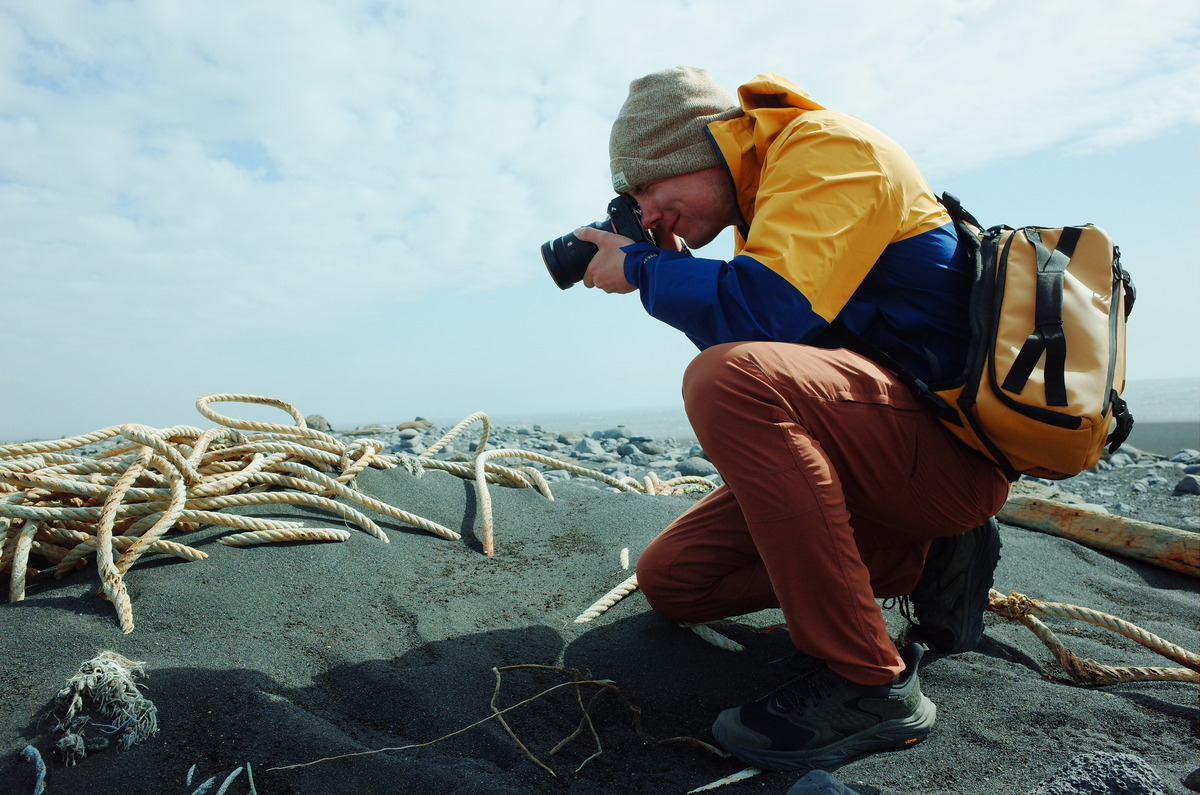
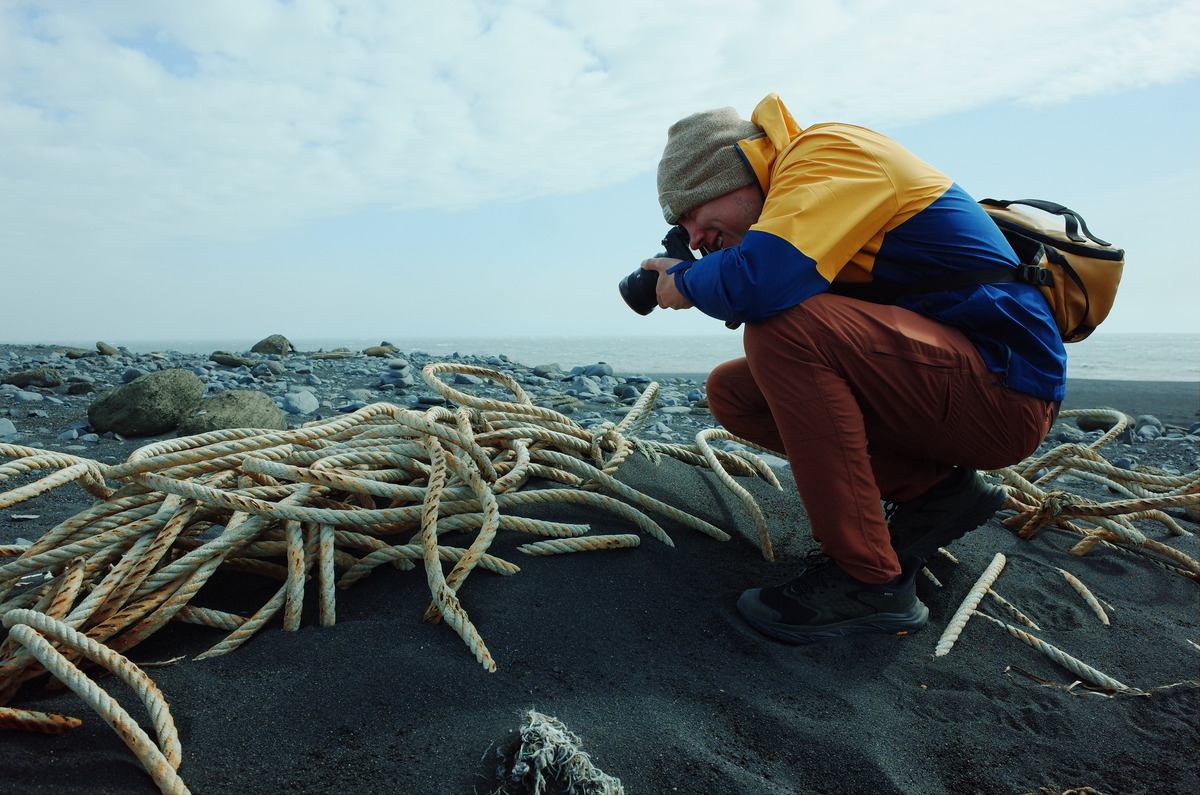
Add: Final content

diff --git a/content/travel/south-coast-iceland.md b/content/travel/south-coast-iceland.md
@@ -1,13 +1,13 @@
 ---
 title: "Exploring Iceland's South Coast: Seljalandsfoss, Dyrhólaey, and Reynisfjara Beach"
-date: 2024-08-13T13:13:56-04:00
+date: 2024-08-14T13:13:56-04:00
 description: "Explore Iceland's south coast with visits to Seljalandsfoss, Dyrhólaey, and Reynisfjara Beach. Discover breathtaking landscapes and hidden gems."
-images: ["/images/reykjadalur_steam.jpg"]
+images: ["/images/myles_reynisfjara.jpg"]
 series: ["Iceland", "Iceland 2024"]
 tags: ["iceland", "hotel", "seljalandsfoss", "plane", "reynisfjara"]
 categories: ["travel"]
-thumbnail: "/images/reykjadalur_steam.jpg"
-thumbnailAlt: ""
+thumbnail: "/images/myles_reynisfjara.jpg"
+thumbnailAlt: "Photographer kneeling on the black sand beach of Reynisfjara, Iceland, with a camera raised to take a picture."
 ---
 
 Before Myles and I departed for the south coast of Iceland, we had breakfast in the lobby of Reykjavik Lights. The dining area was beyond the bar, in a part of the hotel with no windows. There were rows of white tables with white chairs, next to a white table which held fresh cantaloupe, grapes, oranges, and watermelon on white plates. Warm bread was placed alongside peanut butter and Nutella. Sweets were nearby the bread, with a tower of muffins, croissants, cookies, and donut holes. Self-serve containers of coffee, tea, orange juice, cereal, and milk were behind the table of food, with a pot of hot oatmeal.
@@ -18,15 +18,15 @@ From the N1 gas station, Myles and I stayed on Route 41 until we connected with 
 
 Eastward on Route 1, Seljalandsfoss is visible from afar. The waterfall plunges two hundred feet from a cliff, and is served water from the Seljalands river, a side-effect of the melting glacier Eyjafjallajökull. Myles and I parked near a gift shop in the style of a cabin. As we had circled behind [Seljalandsfoss in 2018]({{< ref "/travel/iceland-blog-02" >}}), we walked a half mile to the north to visit Gljúfrabúi. The waterfall is overlooked, tucked into a wet cleft along the same rock face of Seljalandsfoss. Inside the canyon, in front of Gljúfrabúi, is a climbable boulder. Myles took a photograph of me atop the boulder in an upward angle, which exposed the 131 foot cliff.
 
+Myles and I kept our time at Seljalandsfoss and Gljúfrabúi short to maximize the day along the coast. We drove thirty minutes to the east of Seljalandsfoss to Kvernufoss, one more waterfall which receives infrequent attention. In comparison to the swarm of tourists at Seljalandsfoss, we were able to walk behind Kvernufoss by ourselves. The waterfall is tucked into a gorge, and is shrouded in constant mist, which blankets the area and nearby organic overlook. As the canyon was devoid of people at the time, I scrambled atop the overlook and used my field recorder to sample the white noise of water as it fell one hundred feet.
+
 {{< images >}}
 
-{{< image src="/images/Gljufrabui.jpg" alt="" >}}
+{{< image src="/images/gljufrabui.jpg" alt="An upward angle view from inside a moss-covered canyon below the Gljúfrabúi waterfall." >}}
 
-{{< image src="/images/Seljalandsfoss_myles.jpg" alt="" >}}
+{{< image src="/images/kvernufoss.jpg" alt="Kvernufoss waterfall in Iceland as water plunges into a rocky stream surrounded by lush green hills." >}}
 
 {{< /images >}}
-
-Myles and I kept our time at Seljalandsfoss and Gljúfrabúi short to maximize the day along the coast. We drove thirty minutes to the east of Seljalandsfoss to Kvernufoss, one more waterfall which receives infrequent attention. In comparison to the swarm of tourists at Seljalandsfoss, we were able to walk behind Kvernufoss by ourselves. The waterfall is tucked into a gorge, and is shrouded in constant mist, which blankets the area and nearby organic overlook. As the canyon was devoid of people at the time, I scrambled atop the overlook and used my field recorder to sample the white noise of water as it fell one hundred feet.
 
 Before Myles and I departed Kvernufoss, I stopped into the Skógar Museum to browse souvenirs. In a display case was a miniature white sheep made of glass. As Myles and I had passed hundreds of sheep along Route 1, I chose the sheep as my token, or symbolic trinket, for the trip. I've bought a sole token for each trip since 2017. In my collection are toy taxi cabs from Manhattan and Kyoto, a troll from Norway, a wax Godzilla figure from a movie premiere in Tokyo, a JR-East subway car from Tokyo, a ceramic Romanian house, and a scale Mount Fuji from Yamanashi Japan. My token for Iceland in 2018 was a metal figurine of the god Thor.
 
@@ -38,9 +38,9 @@ Beyond the plane to the south was the North Atlantic coast. The beach went on fo
 
 {{< images >}}
 
-{{< image src="/images/plane_crash.jpg" alt="" >}}
+{{< image src="/images/plane_crash.jpg" alt="Port side view of a crashed C-117D plane in Iceland." >}}
 
-{{< image src="/images/myles_beach.jpg" alt="" >}}
+{{< image src="/images/myles_beach.jpg" alt="Person photographing tangled rope in sand near a beach." >}}
 
 {{< /images >}}
 
@@ -54,14 +54,24 @@ Our next stop was Reynisfjara Beach, known for black sand and sneaker waves. Myl
 
 Reynisfjara Beach is a place where the line between beauty and danger is thin. With black sand underneath a sky with heavy clouds, Reynisfjara Beach was otherworldly. Seabirds called out from the blackened cliffs, their cries muted by the sea and wind. Waves crashed against the shoreline with a white foam which contrasted with the dark ground. These waves, however, are unpredictable and swift, and have powerful undercurrents. The tide recedes deceptively and returns suddenly in force. In years past, visitors have walked beyond the recommended safe zone and have been dragged out to sea. The last fatality was in 2022.
 
+{{< images >}}
+
+{{< image src="/images/dyrholaey.jpg" alt="Black sand coast line stretching into the distance." >}}
+
+{{< image src="/images/reynisfjara.jpg" alt="People walking along the black sand beach of Reynisfjara." >}}
+
+{{< /images >}}
+
 After Reynisfjara Beach, Myles and I made our way to Hjörleifshöfði to visit the Yoda cave. The cave, naturally carved into the side of the mountain, bears a resemblance to the iconic Star Wars character. The approach to the cave required a short hike across rocky terrain, with wind a persistent force. The distinct shape is more pronounced from within the cave, with casted shadows which highlighted the rock formations. The entrance frames the landscape outside, which creates a dramatic view of the surrounding plains. Despite the cave's connection to popular culture, the site is not a tourist attraction and remains quiet.
 
 We explored the area outside of the cave and were surrounded by stark contrasts of black sands and lush greenery. Low vegetation dotted the slopes of the mountain, with seabirds nested among the high cliffs. The view of the Mýrdalssandur outwash plain stretched out for miles, an expanse shaped by volcanic activity and glacial rivers. Within the plains near the cave, Myles and I walked a half mile to two large boulders, one of which resembled a troll. The boulders were unclimbable but were picturesque from each side. The solitude of the area, however, was eerie, with an absence of people and structure. Wind was the sole audible noise. We did, however, locate beach glass scattered on the ground.
 
 {{< images >}}
 
-{{< image src="/images/plains_boulder.jpg" alt="" >}}
+{{< image src="/images/plains_boulder.jpg" alt="A colossal boulder on an empty plain with a distant boulder in the background." >}}
 
-{{< image src="/images/plains_myles.jpg" alt="" >}}
+{{< image src="/images/plains_myles.jpg" alt="Photographer standing next to a moss covered mountain with camera in hand." >}}
 
 {{< /images >}}
+
+After we left Hjörleifshöfði, Myles and I returned to Reykjavik Lights. It was a long drive, which took four hours. Traffic was non-existent for miles at a time, which allowed for us to keep a consistent speed the entire way. Vehicles we came across were headed in the same direction. The journey took us westward across the southern coast on Route 1. We passed through dimly lit villages and wide stretches of empty plains. Despite how late it was, the midnight sun cast an eerie glow across the landscape. By the time we reached the hotel, the clock had passed midnight, yet daylight persisted, a reminder of Iceland's uniqueness.

diff --git a/content/travel/iceland-blog-02.md b/content/travel/iceland-blog-02.md
@@ -45,8 +45,8 @@ We walked towards the cliff edge near the right side of the lighthouse, which pr
 
 {{< images >}}
 
-{{< image src="/images/dyrholaey_1.jpg" alt="Dyrhólaey." >}}
-{{< image src="/images/dyrholaey_2.jpg" alt="Dyrhólaey." >}}
+{{< image src="/images/dyrholaey_1.jpg" alt="" >}}
+{{< image src="/images/dyrholaey_2.jpg" alt="" >}}
 
 {{< /images >}}
 
